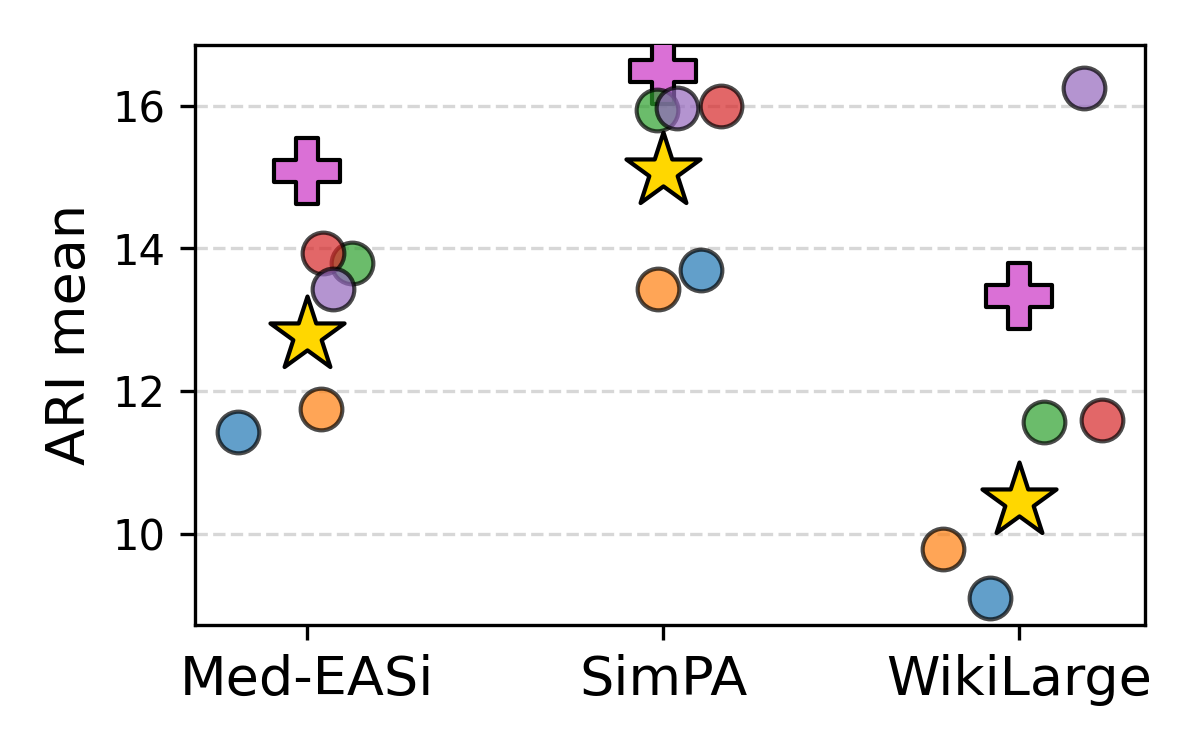
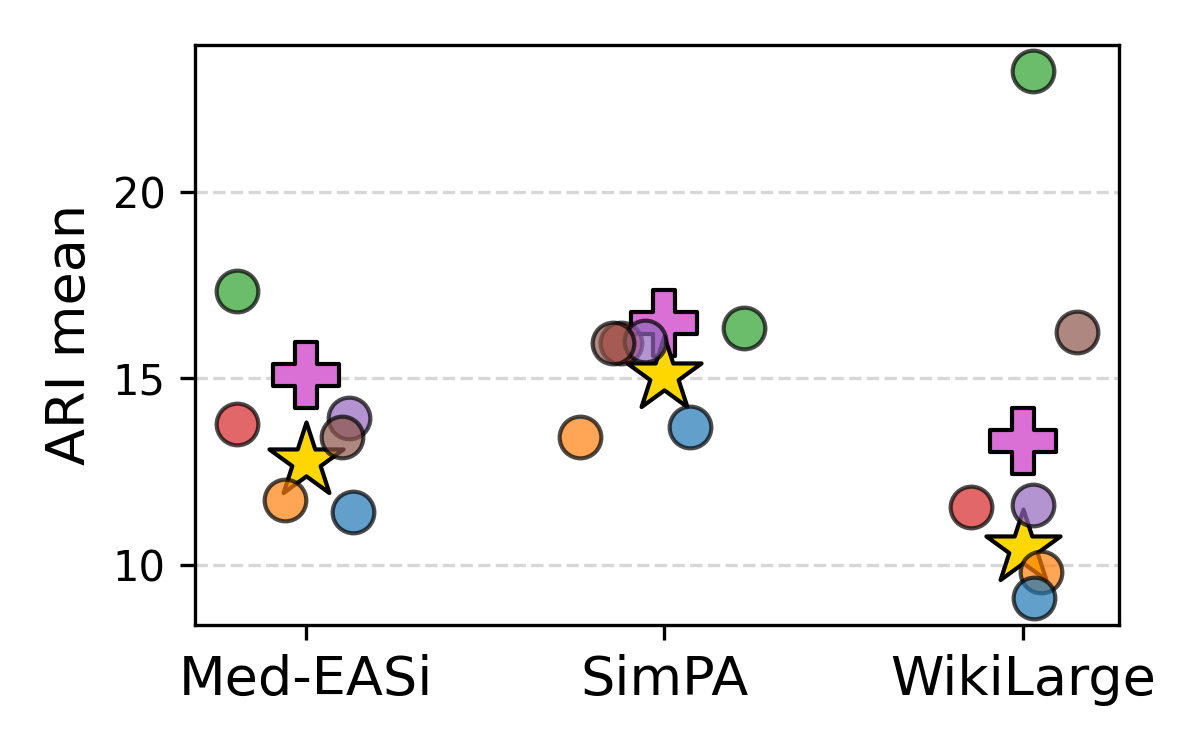
add visuals with new scatter shape

diff --git a/src/sft_eval_compare.py b/src/sft_eval_compare.py
@@ -97,7 +97,7 @@ def plot_mean_ctrl(all_results, save_dir, all_means):
                          for ds_map in all_means.values()
                          for d in ds_map.values()
                          for m in d})
-    all_models.remove("Ministral-3b-instruct")
+    # all_models.remove("Ministral-3b-instruct")
     cmap = plt.get_cmap("tab10")
     model_colors = {m: cmap(i % 10) for i, m in enumerate(all_models)}
 
